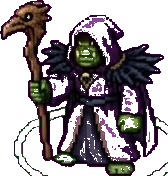
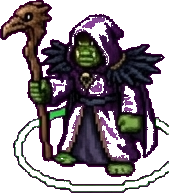
4

diff --git a/battle.html b/battle.html
@@ -15,11 +15,11 @@
  canvas{position:absolute;inset:0;width:100%;height:100%;touch-action:none;}
  #hud{flex:0 0 auto;background:#0a0e1d;border-top:1px solid #1b2138;padding:5px 8px;}
  #bar{display:flex;gap:8px;overflow-x:auto;}
- .card{flex:0 0 auto;width:150px;border-radius:12px;background:#141a30;border:2px solid #232b48;padding:7px;text-align:center;position:relative;}
+ .card{flex:0 0 auto;width:78px;border-radius:11px;background:#141a30;border:2px solid #232b48;padding:5px;text-align:center;position:relative;}
  .card.sel{border-color:#ffd36b;box-shadow:0 0 0 2px rgba(255,211,107,.35);}.card.dis{opacity:.4;}.card.out{filter:grayscale(1) brightness(.55);}
  .card.out::after{content:"출격중";position:absolute;inset:0;display:flex;align-items:center;justify-content:center;font-size:14px;font-weight:600;color:#fff;background:#0007;border-radius:12px;}
- .card img{width:108px;height:108px;object-fit:contain;display:block;margin:0 auto;image-rendering:pixelated;}
- .card .nm{font-size:14px;margin-top:3px;white-space:nowrap;overflow:hidden;}.card .cost{font-size:14px;color:#ffd36b;font-weight:600;}
+ .card img{width:70px;height:74px;object-fit:cover;object-position:50% 10%;display:block;margin:0 auto;image-rendering:pixelated;}
+ .card .nm{font-size:12px;margin-top:2px;white-space:nowrap;overflow:hidden;}.card .cost{font-size:13px;color:#ffd36b;font-weight:600;}
  .card .lv{position:absolute;top:3px;left:4px;font-size:12px;font-weight:600;padding:1px 6px;border-radius:6px;background:#0009;color:#ffe08a;}
  .card.rR{border-color:#5b8cff;}
  @keyframes rdy{0%,100%{box-shadow:0 0 0 0 rgba(255,211,107,0);}50%{box-shadow:0 0 9px 2px rgba(255,211,107,.55);}}
@@ -36,6 +36,17 @@
  #toast{position:absolute;top:50px;left:50%;transform:translateX(-50%);background:#141a30dd;border:1px solid #2a3454;padding:7px 13px;border-radius:10px;font-size:13px;display:none;z-index:6;}
 #dpFoot{font-size:13px;color:#ffd36b;margin:0 0 5px 2px;} #dpFoot b{font-size:20px;color:#ffe08a;}
 #pausemenu{position:absolute;inset:0;display:none;align-items:center;justify-content:center;flex-direction:column;gap:14px;background:#05070fdd;z-index:7;} #pausemenu h1{font-family:'Do Hyeon';font-size:40px;} #pausemenu button{font-family:'Pretendard';font-size:16px;border:none;border-radius:12px;padding:12px 30px;font-weight:600;width:200px;} .b-resume{background:#9be29b;color:#0a0e1d;} .b-forfeit{background:#ff8a8a;color:#0a0e1d;}
+@media (pointer:coarse){
+ #topbar{height:40px;font-size:12px;} #topbar .pill{padding:3px 9px;} .nexus b{font-size:14px;} .dp b{font-size:16px;}
+ #hud{padding:4px 6px;}
+ #dpFoot{font-size:11px;margin:0 0 3px 2px;} #dpFoot b{font-size:16px;}
+ #bar{gap:6px;}
+ .card{width:54px;padding:3px;border-radius:9px;}
+ .card img{width:48px;height:60px;object-fit:cover;object-position:50% 10%;border-radius:6px;}
+ .card .nm{font-size:11px;margin-top:2px;} .card .cost{font-size:12px;}
+ .card .lv{font-size:10px;top:2px;left:3px;padding:0 4px;}
+ .card.out::after{font-size:11px;border-radius:9px;}
+}
 </style></head><body>
 <div id="app">
  <div id="topbar"><div class="pill nexus"><span>넥서스</span><b id="nexusHp">10 / 10</b></div><div class="pill dp"><span>DP</span><b id="dpVal">0</b></div><button class="pill abtn" id="autoBtn">오토 ON</button><button class="pill abtn" id="pauseBtn" style="color:#cdd;">⏸</button><div class="pill wave" id="waveInfo">웨이브</div></div>
@@ -64,18 +75,18 @@ const HMAP={};HEROES.forEach(h=>HMAP[h.id]=h);
 const MELEE_CLS={Tank:1,Melee:1,Vanguard:1};
 const SKILL_NAME={dongguo:"형들 빨리 와요!",gubman:"방패 올리기",jagoro:"속사",bossam:"눈보라",hooje:"부패의 씨앗",jungle:"죽음의 손아귀",leeyonce:"정신의 고리 토템"};
 const ENEMIES={
- slime_normal:{name:"슬라임",hp:340,atk:55,armor:25,mr:0,spd:0.85,atkInt:1.0,leak:1,sprite:"assets/enemy/slime_normal.png",sc:1.0},
- slime_fast:{name:"날쌘 슬라임",hp:200,atk:35,armor:8,mr:0,spd:1.7,atkInt:0.8,leak:2,sprite:"assets/enemy/slime_fast.png",sc:0.85},
- slime_heavy:{name:"묵직 슬라임",hp:900,atk:90,armor:70,mr:20,spd:0.6,atkInt:1.3,leak:3,sprite:"assets/enemy/slime_heavy.png",sc:1.1},
- slime_boss:{name:"보스 슬라임",hp:2600,atk:150,armor:80,mr:40,spd:0.5,atkInt:1.4,leak:5,sprite:"assets/enemy/slime_boss.png",sc:1.4},
+ slime_normal:{name:"슬라임",hp:340,atk:55,armor:25,mr:0,spd:0.85,atkInt:1.0,leak:1,sprite:"assets/Enemy/slime_normal.png",sc:1.0},
+ slime_fast:{name:"날쌘 슬라임",hp:200,atk:35,armor:8,mr:0,spd:1.7,atkInt:0.8,leak:2,sprite:"assets/Enemy/slime_fast.png",sc:0.85},
+ slime_heavy:{name:"묵직 슬라임",hp:900,atk:90,armor:70,mr:20,spd:0.6,atkInt:1.3,leak:3,sprite:"assets/Enemy/slime_heavy.png",sc:1.1},
+ slime_boss:{name:"보스 슬라임",hp:2600,atk:150,armor:80,mr:40,spd:0.5,atkInt:1.4,leak:5,sprite:"assets/Enemy/slime_boss.png",sc:1.4},
 };
 const WAVES=[{at:2,type:"slime_normal",count:3,gap:1.6},{at:10,type:"slime_fast",count:4,gap:0.8},{at:18,type:"slime_normal",count:3,gap:1.2},{at:26,type:"slime_heavy",count:2,gap:2.0},{at:34,type:"slime_fast",count:5,gap:0.6},{at:40,type:"slime_boss",count:1,gap:1}];
 /* ==== map (drawn by us; image-pixel grid, perfectly aligned) ==== */
-const GRID={ox:80,oy:116,tile:96,cols:11,rows:5,iw:1216,ih:712};
-const NEXUS=[[10,2]];
-const HIGH=(function(){const a=[];for(let c=0;c<=9;c++){a.push([c,1]);a.push([c,3]);}return a;})();
-const VOID=(function(){const a=[];for(let c=0;c<=10;c++){a.push([c,0]);a.push([c,4]);}return a;})();
-const SPAWN=[0,2];
+const GRID={ox:64,oy:64,tile:96,cols:5,rows:10,iw:608,ih:1088};
+const NEXUS=[[2,9]];
+const HIGH=(function(){const a=[];for(let r=1;r<=8;r++){a.push([1,r]);a.push([3,r]);}return a;})();
+const VOID=(function(){const a=[];for(let r=0;r<=9;r++){a.push([0,r]);a.push([4,r]);}return a;})();
+const SPAWN=[2,0];
 const START_DP=20,DP_REGEN=1.0,NEXUS_HP=10;
 function key(c,r){return c+","+r;}
 const NEXSET=new Set(NEXUS.map(p=>key(p[0],p[1]))), HIGHSET=new Set(HIGH.map(p=>key(p[0],p[1]))), VOIDSET=new Set(VOID.map(p=>key(p[0],p[1])));
@@ -106,7 +117,7 @@ let CW=0,CH=0,DPR=1,bgX=0,bgY=0,sc=1,cw=0,ch=0,portrait=false;
 const MAP=new Image();MAP.src="assets/maps/map_drawn.png";
 function resize(){const st=document.getElementById("stage");const w=st.clientWidth,h=st.clientHeight;DPR=Math.min(window.devicePixelRatio||1,2);cv.width=w*DPR;cv.height=h*DPR;CW=w;CH=h;ctx.setTransform(DPR,0,0,DPR,0,0);
  portrait=h>w*1.05;const iw=MAP.width||GRID.iw,ih=MAP.height||GRID.ih;sc=Math.min(w/iw,h/ih);bgX=(w-iw*sc)/2;bgY=(h-ih*sc)/2;cw=GRID.tile*sc;ch=GRID.tile*sc;
- document.getElementById("rotate").style.display=portrait?"flex":"none";}
+ document.getElementById("rotate").style.display="none";}
 window.addEventListener("resize",resize);
 function gx0(){return bgX+GRID.ox*sc;}function gy0(){return bgY+GRID.oy*sc;}
 function sx(c){return gx0()+(c+0.5)*cw;}function sy(r){return gy0()+(r+0.5)*ch;}
@@ -242,7 +253,7 @@ document.getElementById("upSkill").onclick=()=>{const u=G.selUnit;if(!u)return;i
 document.getElementById("autoBtn").onclick=()=>{G.globalAuto=!G.globalAuto;const b=document.getElementById("autoBtn");b.textContent="오토 "+(G.globalAuto?"ON":"OFF");b.style.color=G.globalAuto?"#9be29b":"#ff8a8a";};
 document.getElementById("pauseBtn").onclick=()=>{if(G.over)return;G.paused=true;document.getElementById("pausemenu").style.display="flex";};
 document.getElementById("resumeBtn").onclick=()=>{G.paused=false;document.getElementById("pausemenu").style.display="none";};
-document.getElementById("forfeitBtn").onclick=()=>{G.paused=false;document.getElementById("pausemenu").style.display="none";G.over=true;const o=document.getElementById("overlay");o.style.display="flex";document.getElementById("ovText").textContent="전투 포기";document.getElementById("ovText").style.color="#ff8a8a";};
+document.getElementById("forfeitBtn").onclick=()=>{location.href="index.html";};
 function showConfirm(){document.getElementById("confirmRow").style.display="flex";}
 function hideConfirm(){document.getElementById("confirmRow").style.display="none";}
 function showUnitPanel(u){const p=document.getElementById("unitpanel");p.style.display="flex";const px=sx(u.c),py=sy(u.r);p.style.left=Math.min(CW-160,Math.max(6,px-75))+"px";p.style.top=Math.max(6,py-140)+"px";document.getElementById("upName").textContent=HMAP[u.hid].name+" · "+(SKILL_NAME[HMAP[u.hid].active]||"");document.getElementById("upAuto").textContent=u.auto?"자동":"수동";}